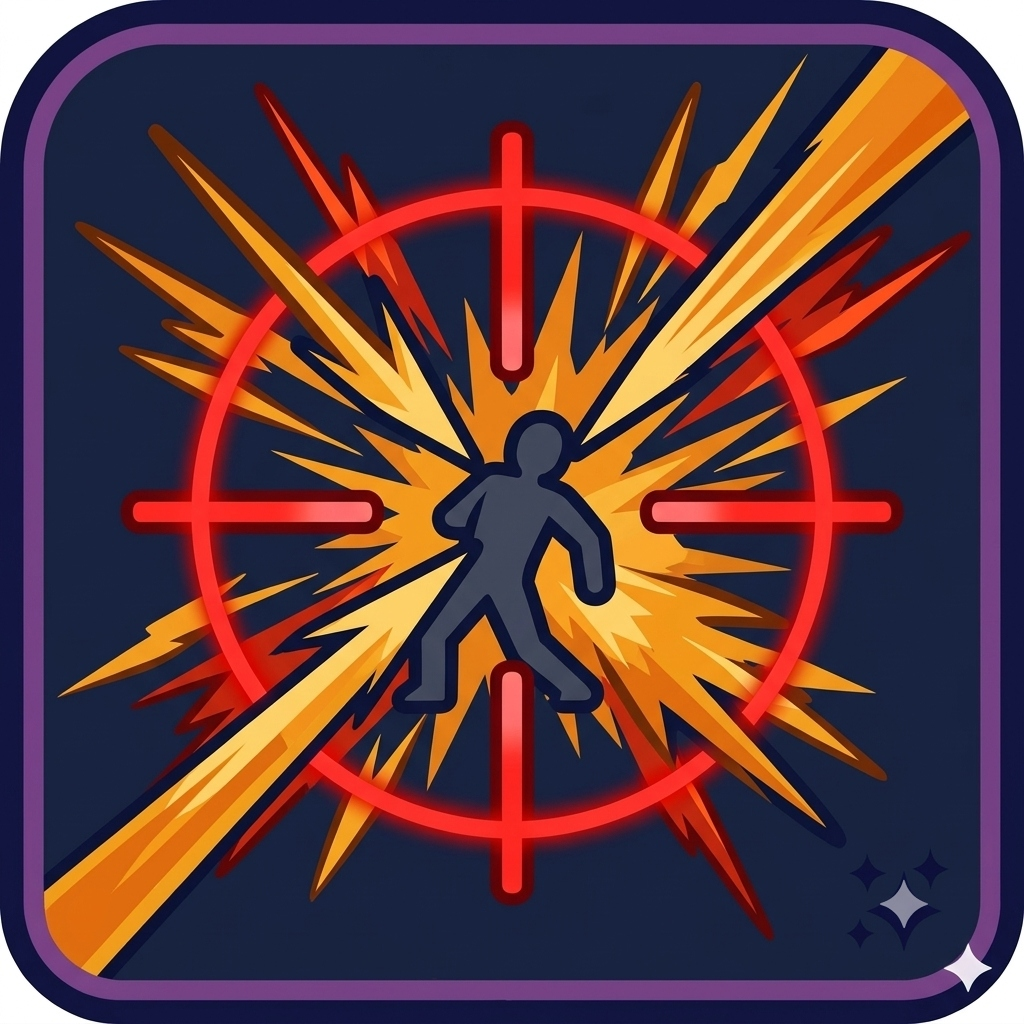
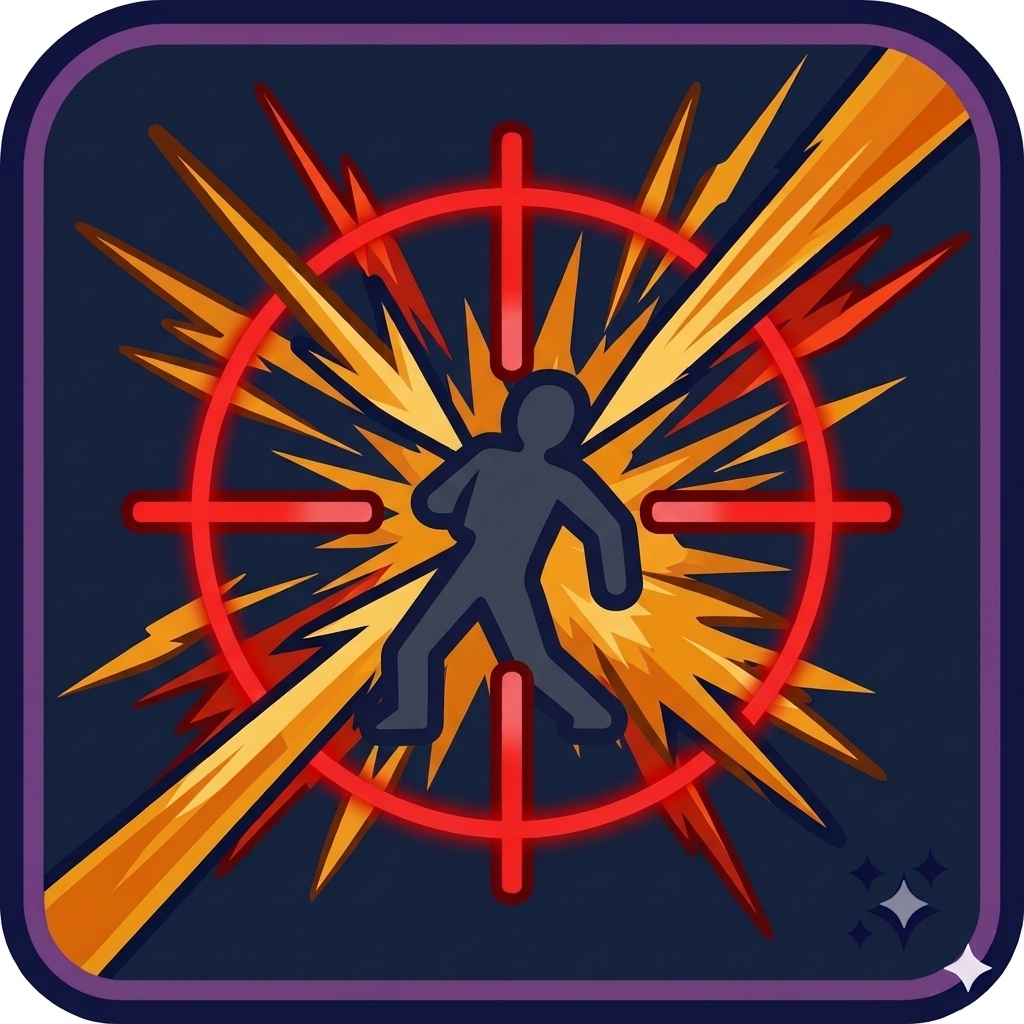
제로섬게임 수정

Changed region(s): [[0.3438, 0.3438, 0.625, 0.75]]

diff --git a/src/entity/Augment/AugmentData.js b/src/entity/Augment/AugmentData.js
@@ -442,15 +442,15 @@ export const AUGMENT_LIST = [
   {
     id: "zeroSumGame",
     name: "제로섬게임",
-    desc: "랜덤한 기술 하나의 위력이 2배가 됩니다.\n다른 기술 하나의 위력이 절반이 됩니다.",
-    cost: 2,
+    desc: "랜덤한 기술 하나의 위력이 1.5배가 됩니다.\n다른 기술 하나의 위력이 0.5배가 됩니다.",
+    cost: 1,
     weight: 100,
     isEligible: (pokemon) => !pokemon?.hasAugment?.("zeroSumGame") && getAttackSkills(pokemon).length >= 2,
     screenText: function (target, prevPokeName, options) {
       const buff = options?.zeroSumBuffSkillName || this?.zeroSumBuffSkillName || target?.zeroSumBuffSkillName;
       const nerf = options?.zeroSumNerfSkillName || this?.zeroSumNerfSkillName || target?.zeroSumNerfSkillName;
       if (buff && nerf) {
-        return `[증강] ${buff}의 위력이 2배, ${nerf}의 위력이 절반이 되었다!`;
+        return `[증강] ${buff}의 위력이 1.5배, ${nerf}의 위력이 0.5배가 되었다!`;
       }
       return "[증강] 제로섬게임의 효과가 적용되었다!";
     },
@@ -458,17 +458,17 @@ export const AUGMENT_LIST = [
       const buff = options?.zeroSumBuffSkillName || this?.zeroSumBuffSkillName || target?.zeroSumBuffSkillName;
       const nerf = options?.zeroSumNerfSkillName || this?.zeroSumNerfSkillName || target?.zeroSumNerfSkillName;
       if (buff && nerf) {
-        return `${buff}의 위력이 2배, ${nerf}의 위력이 절반이 되었다!`;
+        return `${buff}의 위력이 1.5배, ${nerf}의 위력이 0.5배가 되었다!`;
       }
-      return "랜덤한 기술 하나의 위력이 2배, 다른 기술 하나의 위력이 절반이 되었다!";
+      return "랜덤한 기술 하나의 위력이 1.5배, 다른 기술 하나의 위력이 0.5배가 되었다!";
     },
     statusModalText: function (pokemon, battle, options) {
       const buff = options?.zeroSumBuffSkillName || this?.zeroSumBuffSkillName || pokemon?.zeroSumBuffSkillName;
       const nerf = options?.zeroSumNerfSkillName || this?.zeroSumNerfSkillName || pokemon?.zeroSumNerfSkillName;
       if (buff && nerf) {
-        return `${buff}의 위력이 2배가 됩니다.\n${nerf}의 위력은 절반으로 감소합니다.`;
+        return `${buff}의 위력이 1.5배가 됩니다.\n${nerf}의 위력은 0.5배로 감소합니다.`;
       }
-      return "랜덤한 기술 하나의 위력이 2배가 됩니다.\n다른 기술 하나의 위력이 절반이 됩니다.";
+      return "랜덤한 기술 하나의 위력이 1.5배가 됩니다.\n다른 기술 하나의 위력이 0.5배가 됩니다.";
     },
     onApply: function (pokemon, battle, options) {
       if (!pokemon?.skill) return;

diff --git a/src/component/battleScreen/augment/AugmentIcon.js b/src/component/battleScreen/augment/AugmentIcon.js
@@ -4212,7 +4212,7 @@ export const AugmentIcon = ({ id, size = 42, pokemon = null, pokemonId = null, s
         {id === "focusOne" && (
           <g clipPath="url(#lwClip)">
             <circle cx="32" cy="32" r="30" fill="#0f172a" />
-            <image href="/pokemon/img/augment/focusOne.png?v=2" xlinkHref="/pokemon/img/augment/focusOne.png?v=2" x="-1" y="-1" width="66" height="66" preserveAspectRatio="xMidYMid slice" />
+            <image href="/pokemon/img/augment/focusOne.png?v=4" xlinkHref="/pokemon/img/augment/focusOne.png?v=4" x="-1" y="-1" width="66" height="66" preserveAspectRatio="xMidYMid slice" />
             <circle cx="32" cy="32" r="29.5" fill="none" stroke="#ef4444" strokeWidth="1.8" />
             <circle cx="32" cy="32" r="28.2" fill="none" stroke="#f87171" strokeWidth="0.5" strokeOpacity="0.65" />
           </g>

diff --git a/src/calc/damageCalculate.js b/src/calc/damageCalculate.js
@@ -783,11 +783,11 @@ export const damageCalculate = (battle, num, ai) => {
     }
   }
 
-  // 제로섬게임: 랜덤한 기술 하나의 위력이 2배, 다른 기술 하나의 위력이 절반
+  // 제로섬게임: 랜덤한 기술 하나의 위력이 1.5배, 다른 기술 하나의 위력이 0.5배
   if (attackPokemon?.hasAugment?.("zeroSumGame")) {
     if (skill.name === attackPokemon.zeroSumBuffSkillName) {
-      damage *= 2;
-      attackPokemon.log.damage1 += ` * 2 (제로섬게임+)`;
+      damage *= 1.5;
+      attackPokemon.log.damage1 += ` * 1.5 (제로섬게임+)`;
     } else if (skill.name === attackPokemon.zeroSumNerfSkillName) {
       damage *= 0.5;
       attackPokemon.log.damage1 += ` * 0.5 (제로섬게임-)`;

diff --git a/src/component/battleScreen/bottom/skill/SkillButton.js b/src/component/battleScreen/bottom/skill/SkillButton.js
@@ -244,11 +244,11 @@ export const getSkillEnhanceBadges = (pokemon, skill) => {
     });
   }
 
-  // 3. 제로섬게임 (강화: 위력 2배 (초록 +), 실패: 위력 0.5배 (빨간 -))
+  // 3. 제로섬게임 (강화: 위력 1.5배 (초록 +), 실패: 위력 0.5배 (빨간 -))
   if (isZeroSumBuffSkill(pokemon, skill)) {
     badges.push({
       id: "zeroSumGame_buff",
-      title: "제로섬게임 (위력 2배)",
+      title: "제로섬게임 (위력 1.5배)",
       render: () => <AugmentIcon key="zeroSumGame_buff" id="zeroSumGame" size={19} sign="+" />,
     });
   } else if (isZeroSumNerfSkill(pokemon, skill)) {
